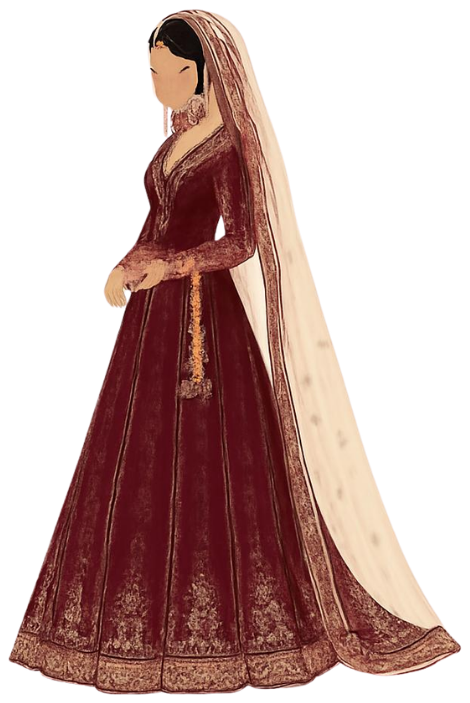
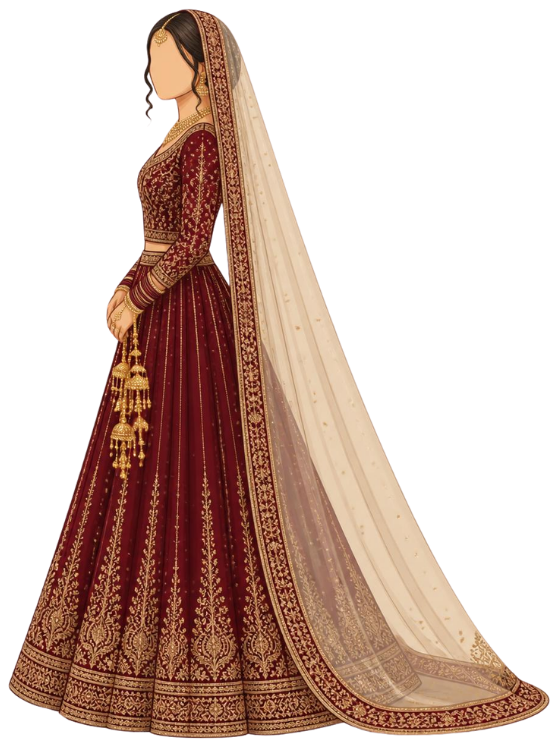
Updated bride artwork; bride stands slightly shorter than the groom
- Trim the new bride1.png to the figure and record its size in content/art.ts
- Add a per-cutout `scale` (bride 0.92) applied in the invitation scenes,
  home couple cards, story page and the share image

diff --git a/content/art.ts b/content/art.ts
@@ -2,15 +2,23 @@
  * ARTWORK — change these three entries to swap the whole site's illustrations.
  *
  * Put the files in `public/art/` and update `src`, the pixel `width`/`height`
- * of the file (used for aspect ratios), and which way the character natively
- * faces. Components flip the cutouts automatically so the couple always face
+ * of the file (used for aspect ratios), which way the character natively
+ * faces, and `scale` (relative height; the bride is set a little shorter). Components flip the cutouts automatically so the couple always face
  * each other, whatever the source orientation.
  *
  * After changing the couple or background, regenerate the WhatsApp preview:
  *   python3 scripts/make-og.py
  */
 export type Facing = "left" | "right";
-export type Cutout = { src: string; width: number; height: number; facing: Facing; alt: string };
+export type Cutout = {
+  src: string;
+  width: number;
+  height: number;
+  facing: Facing;
+  alt: string;
+  /** Relative height when the couple stand together (1 = full). Use <1 to make one shorter. */
+  scale: number;
+};
 export type Backdrop = { src: string; width: number; height: number; alt: string };
 
 export const art = {
@@ -20,13 +28,15 @@ export const art = {
     height: 749,
     facing: "left",
     alt: "Illustrated groom",
+    scale: 1,
   } satisfies Cutout as Cutout,
   bride: {
     src: "/art/bride1.png",
-    width: 470,
-    height: 703,
+    width: 558,
+    height: 747,
     facing: "left",
     alt: "Illustrated bride",
+    scale: 0.92,
   } satisfies Cutout as Cutout,
   background: {
     src: "/art/bg1.png",

diff --git a/components/story/CoupleCards.tsx b/components/story/CoupleCards.tsx
@@ -8,8 +8,8 @@ export function CoupleCards() {
   return (
     <section className="mx-auto max-w-6xl px-6 py-8 grid grid-cols-1 md:grid-cols-2 gap-12">
       {[
-        { ...story.groom, art: art.groom.src, aspect: ratio(art.groom), flip: faceClass(art.groom, "right"), right: false },
-        { ...story.bride, art: art.bride.src, aspect: ratio(art.bride), flip: faceClass(art.bride, "left"), right: true },
+        { ...story.groom, art: art.groom.src, aspect: ratio(art.groom), flip: faceClass(art.groom, "right"), scale: art.groom.scale, right: false },
+        { ...story.bride, art: art.bride.src, aspect: ratio(art.bride), flip: faceClass(art.bride, "left"), scale: art.bride.scale, right: true },
       ].map((p, i) => (
         <Reveal key={p.name} delay={i * 0.1}>
           <div className="relative flex flex-col items-center text-center">
@@ -29,6 +29,7 @@ export function CoupleCards() {
                 fill
                 sizes="(max-width: 768px) 100vw, 40vw"
                 className={`object-contain object-bottom ${p.flip}`}
+                style={{ transform: `scale(${p.scale})`, transformOrigin: "bottom center" }}
               />
             </div>
             <div className="mt-6">

diff --git a/components/home/InvitationStage.tsx b/components/home/InvitationStage.tsx
@@ -153,6 +153,7 @@ export function InvitationStage() {
   const meet = scene === "date" || meme;
   const groomRight = faceScale(art.groom, "right");
   const brideLeft = faceScale(art.bride, "left");
+  const bs = art.bride.scale;
 
   return (
     <section
@@ -280,11 +281,11 @@ export function InvitationStage() {
           animate={
             brideOn
               ? meme
-                ? { x: "-4%", opacity: 1, scaleX: brideLeft, height: "46%" }
+                ? { x: "-4%", opacity: 1, scaleX: brideLeft, height: `${46 * bs}%` }
                 : meet
-                  ? { x: "-14%", opacity: 1, scaleX: brideLeft, height: "50%" }
-                  : { x: "-4%", opacity: 1, scaleX: 1, height: "64%" }
-              : { x: "120%", opacity: 0, scaleX: 1, height: "64%" }
+                  ? { x: "-14%", opacity: 1, scaleX: brideLeft, height: `${50 * bs}%` }
+                  : { x: "-4%", opacity: 1, scaleX: 1, height: `${64 * bs}%` }
+              : { x: "120%", opacity: 0, scaleX: 1, height: `${64 * bs}%` }
           }
           transition={{ duration: 1.1, ease, delay: meet ? 0.15 : 0 }}
           style={{ aspectRatio: ratio(art.bride), transformOrigin: "bottom center" }}

diff --git a/components/home/MeetTheCouple.tsx b/components/home/MeetTheCouple.tsx
@@ -33,7 +33,7 @@ export function MeetTheCouple() {
 
           <Reveal delay={0.1}>
             <article className="relative flex flex-col md:flex-row-reverse items-center gap-6 paper-card torn-top torn-bottom p-8">
-              <div className="relative shrink-0 w-32 md:w-44 h-64 md:h-80" style={{ aspectRatio: ratio(art.bride) }}>
+              <div className="relative shrink-0 w-32 md:w-44 h-64 md:h-80" style={{ aspectRatio: ratio(art.bride), transform: `scale(${art.bride.scale})`, transformOrigin: "bottom center" }}>
                 <Image src={art.bride.src} alt={art.bride.alt} fill sizes="220px" className={`object-contain object-bottom ${faceClass(art.bride, "left")}`} />
               </div>
               <div className="text-center md:text-right">

diff --git a/scripts/make-og.py b/scripts/make-og.py
@@ -41,7 +41,7 @@ g = Image.open(pub(groom["src"])).convert("RGBA")
 if groom["facing"] == "left": g = g.transpose(Image.FLIP_LEFT_RIGHT)   # groom stands left, faces right
 r = Image.open(pub(bride["src"])).convert("RGBA")
 if bride["facing"] == "right": r = r.transpose(Image.FLIP_LEFT_RIGHT)   # bride stands right, faces left
-g = fit(g, 500); r = fit(r, 470)
+g = fit(g, int(500 * float(groom.get("scale", 1)))); r = fit(r, int(500 * float(bride.get("scale", 1))))
 cx = W - bw // 2; base = H - 42
 img.paste(g, (cx - 10 - g.width, base - g.height), g); img.paste(r, (cx - 30, base - r.height), r)
 
